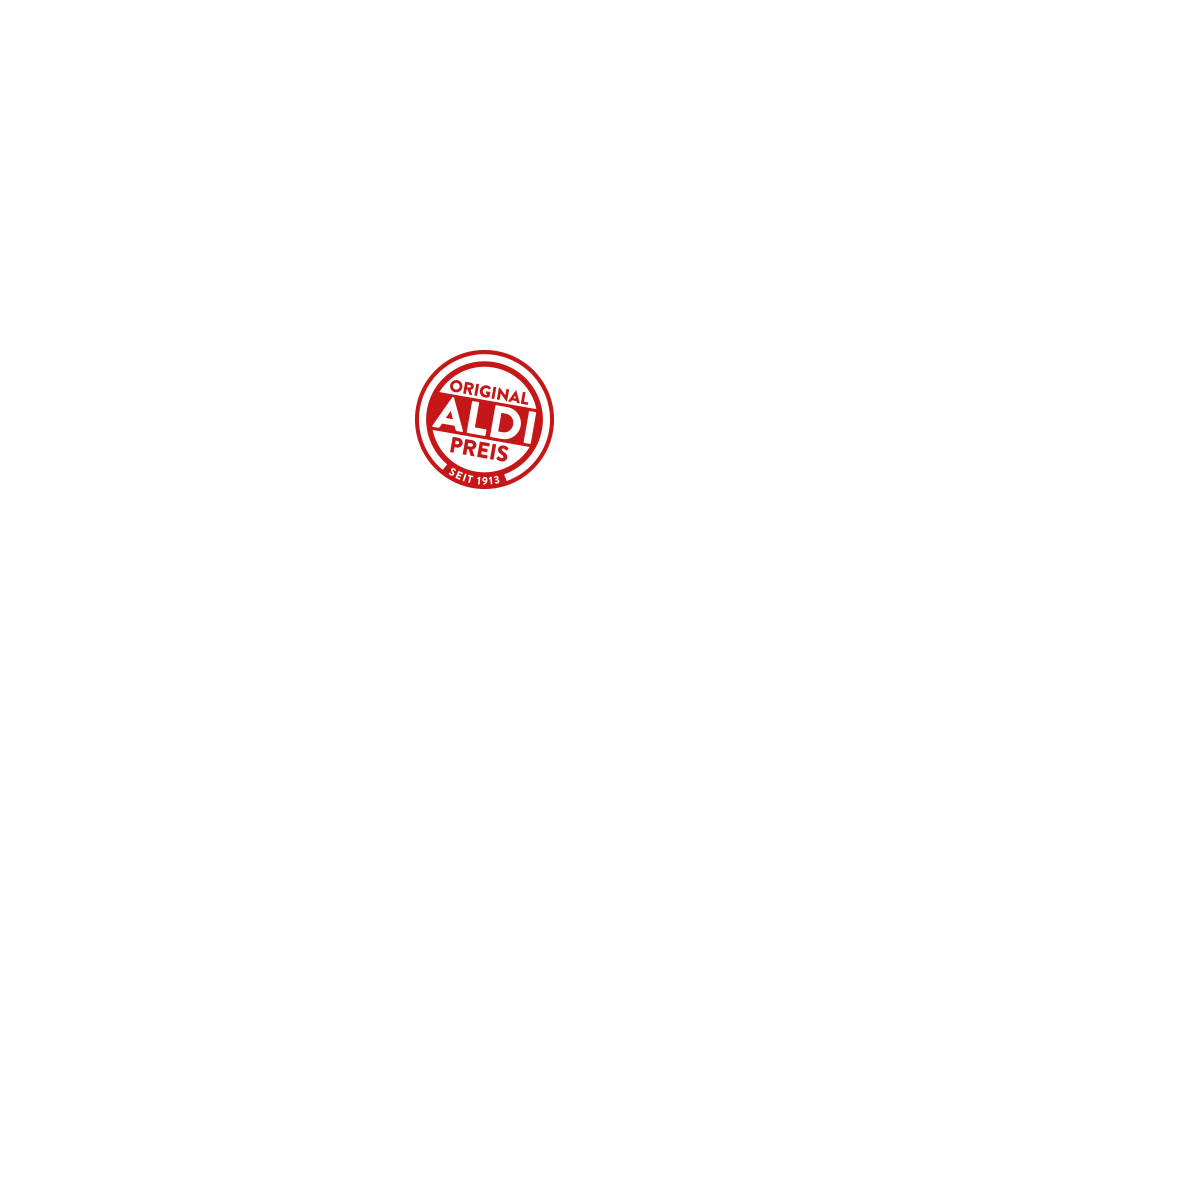
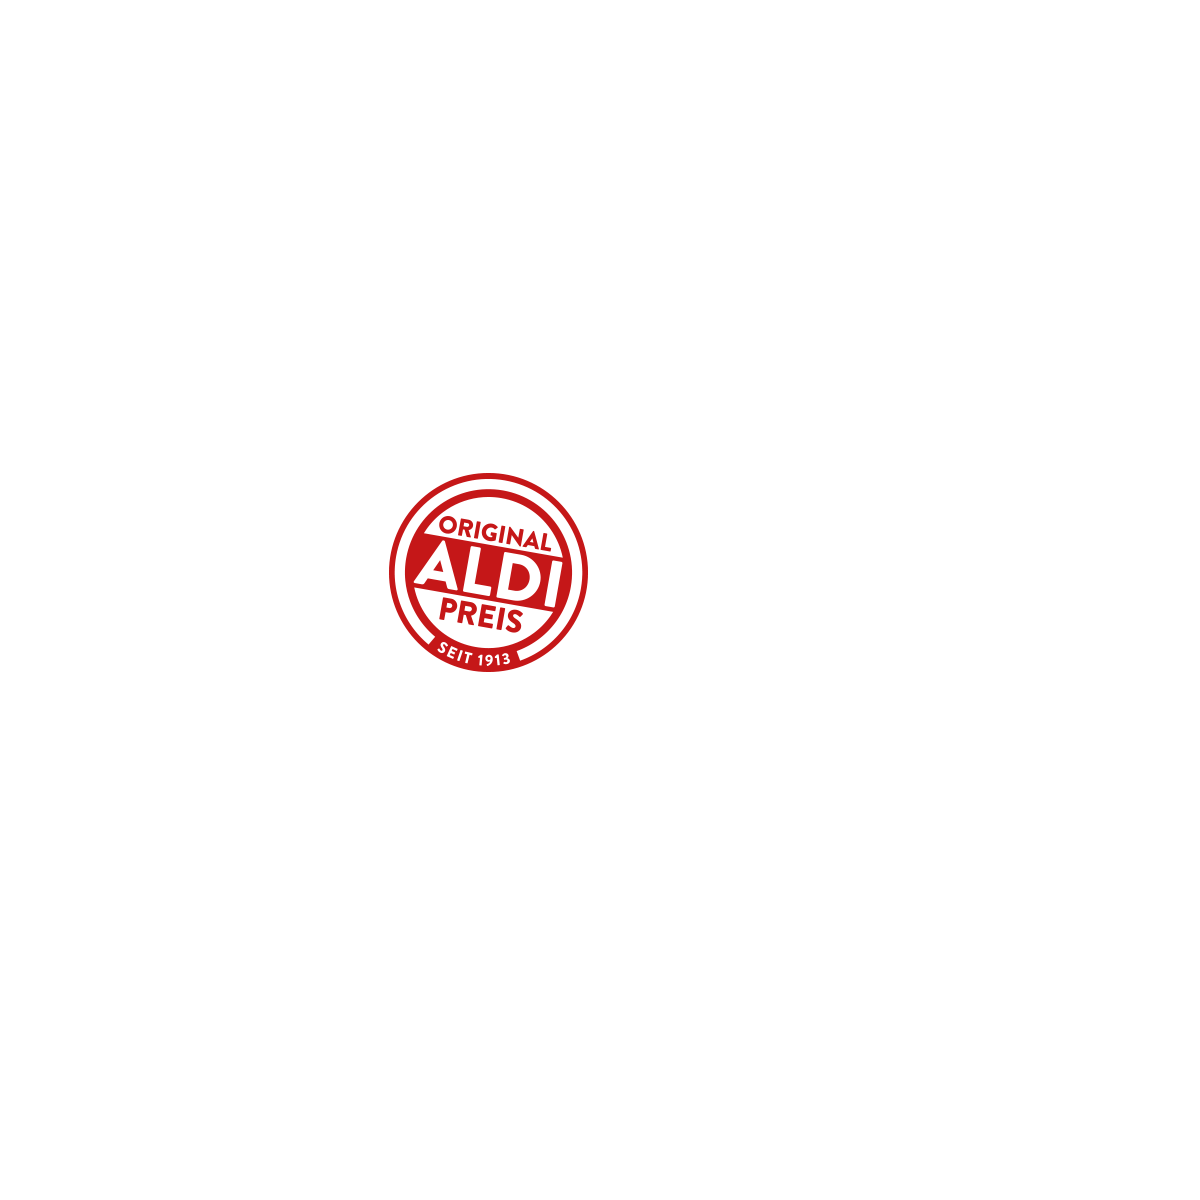
feedback shoppingcart

Changed region(s): [[0.3083, 0.2775, 0.4933, 0.5858]]

diff --git a/preview/Aldi/Aldi_Shoppingcart/Sitebar_v2/main.js b/preview/Aldi/Aldi_Shoppingcart/Sitebar_v2/main.js
@@ -73,11 +73,11 @@ function getAnimation(){
     masterTL.from(["#cart", "#light1", "#light2"], 1, {x:1200, ease:Sine.easeInOut}, "-=1");    
     masterTL.from("#date", 0.3, {opacity:0, ease:Sine.easeOut});  
     masterTL.from("#text1", 0.5, {opacity:0, ease:Sine.easeOut});  
-    masterTL.from("#highlight1Wrapper", 1, {width:0, ease:Sine.easeOut});  
-    masterTL.from("#sticker", 0.5, {scale:0, rotation:-360, ease:Sine.easeOut});  
+    masterTL.from("#highlight1Wrapper", 1, {width:0, ease:Sine.easeOut});   
     masterTL.to(["#introWrapper", "#bgWrapper"], 1, {x:-(1199*2), ease:Sine.easeInOut}, "+=1");    
     masterTL.to(["#cart", "#light1", "#light2"], 1, {x:-1200, ease:Sine.easeInOut}, "-=1");   
     masterTL.from("#products", 1, {x:1200, ease:Sine.easeInOut}, "-=1");    
+    masterTL.from("#sticker", 0.5, {scale:0, rotation:-360, ease:Back.easeOut}); 
     masterTL.from("#badge", 0.5, {opacity:0, ease:Sine.easeInOut});    
     // masterTL.from("#banner", 0.5, {opacity:1});//delay for loop    
     
@@ -86,17 +86,15 @@ function getAnimation(){
     //     masterTL.to("#price"+i, 0.3, {opacity:0, ease:Sine.easeInOut}, "+=0.75");    
     // }
     
-    masterTL.to(["#sticker", "#text1", "#highlight1Wrapper"], 0.3, {opacity:0, ease:Sine.easeIn}, "+=1.5");    
+    masterTL.to(["#sticker", "#text1", "#highlight1Wrapper"], 0.3, {opacity:0, ease:Sine.easeIn}, "+=2");    
     masterTL.from("#sticker2", 0.5, {opacity:0, ease:Sine.easeInOut});    
     masterTL.to("#sticker2", 0.3, {opacity:0, ease:Sine.easeInOut}, "+=1.5");    
     
 
-    masterTL.to(["#logo", "#date", "#badge"], 0.5, {opacity:0, ease:Sine.easeInOut});    
-    masterTL.set("#sticker", {x:296, y:139, scale:0, rotation:-360, opacity:1}, "-=0.5");    
+    masterTL.to(["#logo", "#date", "#badge", "#products"], 0.5, {opacity:0, ease:Sine.easeInOut});    
     masterTL.from("#logo2", 0.5, {opacity:0, ease:Sine.easeInOut}, "-=0.5");    
     masterTL.from("#tagline", 0.3, {opacity:0, ease:Sine.easeInOut}, "-=0.2");  
-    masterTL.to("#sticker", 0.5, {scale:1, rotation:0, ease:Sine.easeOut});    
-    masterTL.to("#products", 0.5, {y:-102, ease:Sine.easeInOut}); 
+    masterTL.from("#sticker3", 0.5, {scale:0, rotation:360, ease:Back.easeOut});    
     masterTL.from("#ctaLeft", 0.5, {scale:0, transformOrigin:"50% 95%", ease:Back.easeOut});
     masterTL.from("#ctaRight", 0.01, {opacity:0, ease:Sine.easeOut}, "+=0.1");
     masterTL.from("#ctaRight", 0.3, {x:-50, ease:Sine.easeOut}, "-=0.01");

diff --git a/preview/Aldi/Aldi_Shoppingcart/Sitebar_v2/index.html b/preview/Aldi/Aldi_Shoppingcart/Sitebar_v2/index.html
@@ -49,6 +49,7 @@
                 
                 <img id="sticker" src="sticker.png">
                 <img id="sticker2" src="sticker2.png">
+                <img id="sticker3" src="sticker3.png">
                 
                 <!-- <img id="price1" class="price" src="price1.png">
                 <img id="price2" class="price" src="price2.png">

diff --git a/preview/Aldi/Aldi_Shoppingcart/Sitebar_v2/style.css b/preview/Aldi/Aldi_Shoppingcart/Sitebar_v2/style.css
@@ -80,6 +80,7 @@ img, div, object{
 }
 
 #tagline,
+#sticker3,
 #sticker2,
 .price,
 #badge,
@@ -154,7 +155,11 @@ img, div, object{
 }
 
 #sticker{
-    transform-origin: 485px 418px;
+    transform-origin: 492px 573px;
+}
+
+#sticker3{
+    transform-origin: 600px 740px;
 }
 
 #logo{
